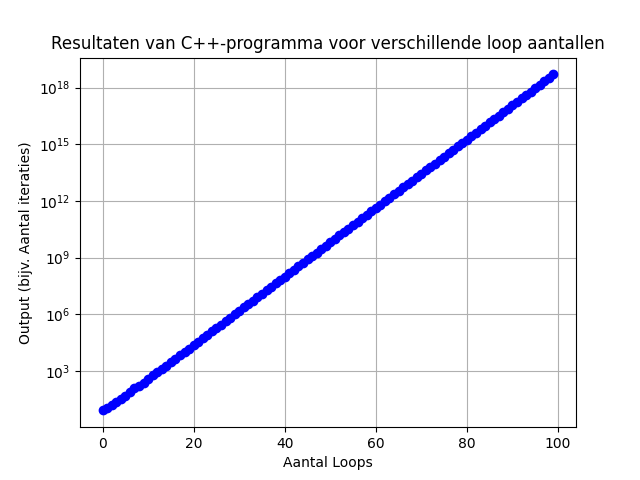
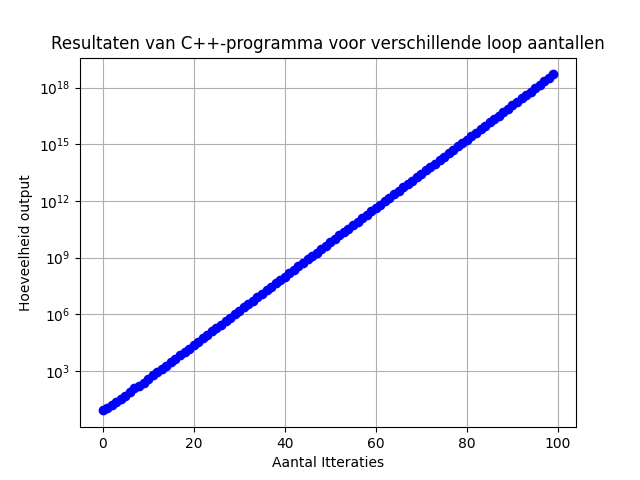
dag 11 af

Changed region(s): [[0.0312, 0.2812, 0.0625, 0.7188], [0.4062, 0.9375, 0.5938, 1.0]]

diff --git a/2024/dag 11 Plutonian Pebbles/dag11.py b/2024/dag 11 Plutonian Pebbles/dag11.py
@@ -32,8 +32,8 @@ for loops in loops_range:
 # Maak een grafiek van de resultaten
 plt.plot(loops_range, output_data, marker='o', linestyle='-', color='b')
 plt.title('Resultaten van C++-programma voor verschillende loop aantallen')
-plt.xlabel('Aantal Loops')
-plt.ylabel('Output (bijv. Aantal iteraties)')
+plt.xlabel('Aantal Itteraties')
+plt.ylabel('Hoeveelheid output')
 plt.yscale('log')
 plt.grid(True)
 plt.savefig("test.png")
